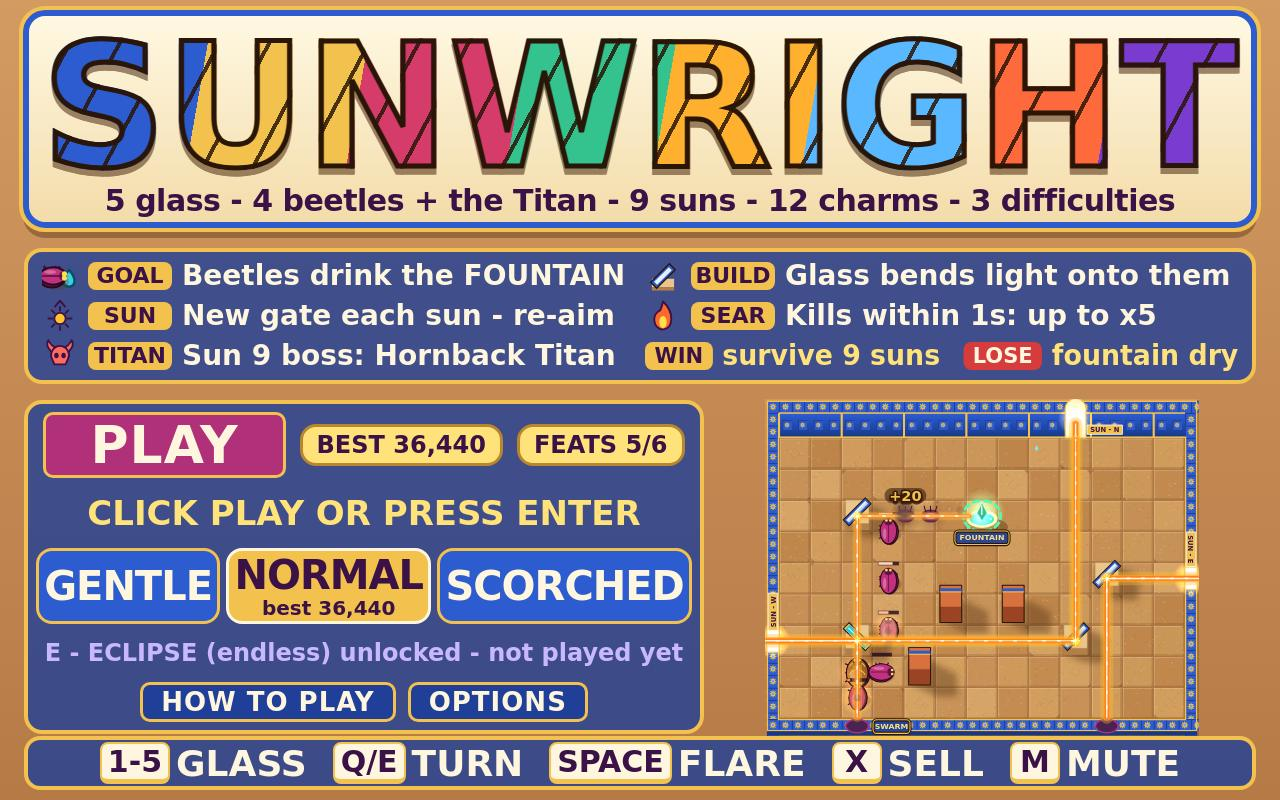
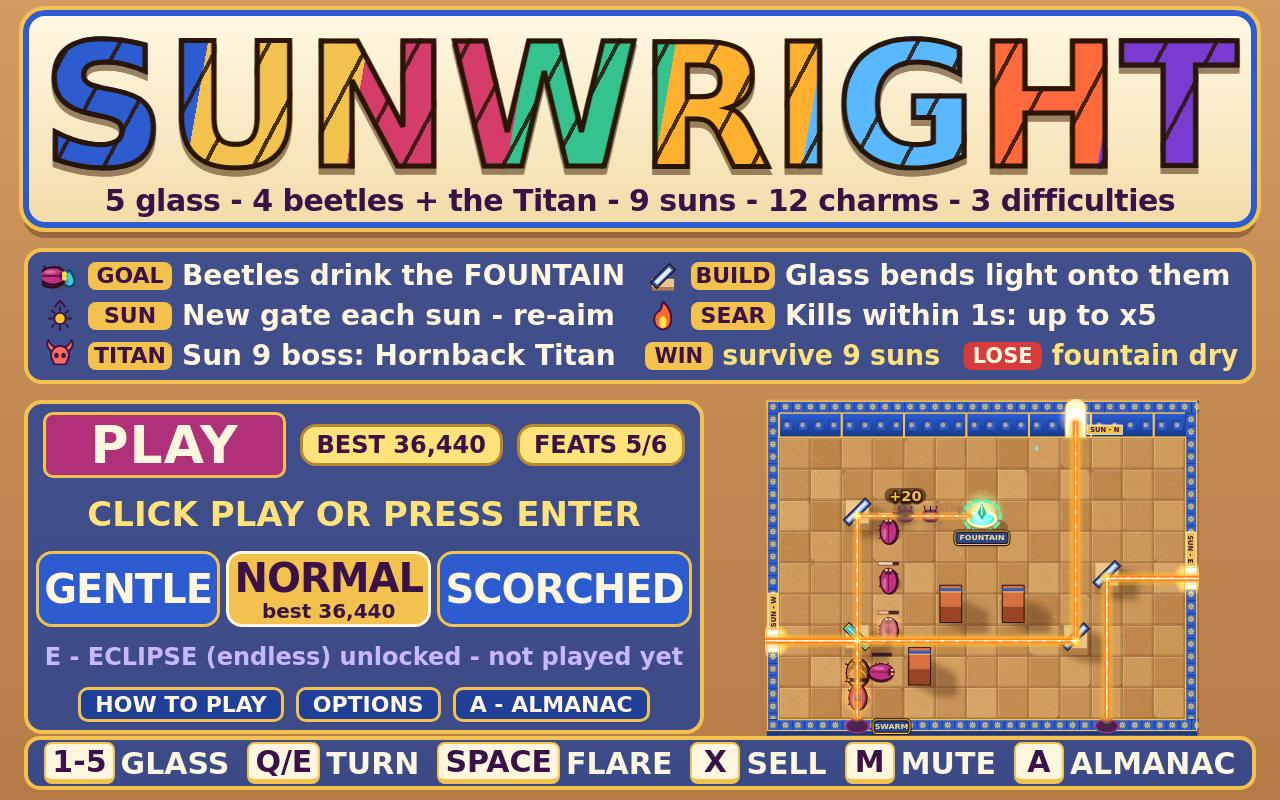
ALMANAC: every beetle, glass level and charm from config at runtime, unmet entries as ? silhouettes with their first sun; A key, title and pause buttons; truth-checked against config and the save

Changed region(s): [[0.0312, 0.625, 0.9688, 1.0]]

diff --git a/game/src/main.js b/game/src/main.js
@@ -3,11 +3,11 @@
 import { DIFFICULTIES, DIFFICULTY_ORDER, DT, PIECES, PIECE_ORDER } from './config.js';
 import { createRun, pieceCost, pieceUnlocked, runSummary, stepSim } from './sim.js';
 import { playSfx, playSizzle, setBeamHum, setVolume, unlockAudio, updateMusic } from './audio.js';
-import { loadBest, loadEclipse, loadHistory, loadSettings, recordRun, saveSettings } from './save.js';
+import { loadBest, loadEclipse, loadHistory, loadMet, loadSettings, recordRun, saveSettings } from './save.js';
 import { drawFrame } from './render/scene.js';
 import { createFx, fxFromEvent, updateFx } from './render/fx.js';
 import { hotbarHit, hudButtonHit } from './render/hud.js';
-import { createMenus, renderOptions, restartRun, showDraft, showResults, showScreen, showTitle } from './ui/menus.js';
+import { createMenus, renderOptions, restartRun, showAlmanac, showDraft, showResults, showScreen, showTitle } from './ui/menus.js';
 import { createTitleDemo, stepTitleDemo } from './titledemo.js';
 import { createInput, drainIntents } from './input.js';
 import { pieceAt, placementCheck, setPiece } from './grid.js';
@@ -140,6 +140,8 @@ function handleUiAction(action, arg) {
       renderOptions(app.settings);
       break;
     case 'closeOptions': app.showOptions = false; break;
+    case 'almanac': app.showAlmanac = true; break;
+    case 'closeAlmanac': app.showAlmanac = false; break;
     case 'setting':
       app.settings[arg.name] = arg.value;
       setVolume(app.settings);
@@ -160,9 +162,16 @@ function handleKeyInPlay(code) {
   if (code === 'KeyM') return toggleMute();
   const over = run.phase === 'won' || run.phase === 'lost';
   if (code === 'Escape') {
-    if (app.showOptions) app.showOptions = false;
+    if (app.showAlmanac) app.showAlmanac = false;
+    else if (app.showOptions) app.showOptions = false;
     else if (over) goTitle();
     else app.paused = !app.paused;
+    return;
+  }
+  if (code === 'KeyA' && !over) {
+    // The Almanac pauses the sun while it is open.
+    app.paused = true;
+    app.showAlmanac = true;
     return;
   }
   if (code === 'KeyF') {
@@ -235,6 +244,7 @@ function handleIntent(it) {
     else if (it.kind === 'wheel' && !app.paused) rotateAtHover(it.dir);
   } else if (it.kind === 'key') {
     // Title: ENTER (or SPACE) starts the selected difficulty; the arrows move the selection.
+    if (app.showAlmanac && it.code !== 'Escape') return;
     if (it.code === 'Enter' || it.code === 'NumpadEnter' || it.code === 'Space') startRun();
     else if (it.code === 'KeyE' && app.screen === 'title') startRun(undefined, app.settings.difficulty, 'eclipse');
     else if ((it.code === 'ArrowUp' || it.code === 'ArrowDown') && app.screen === 'title') {
@@ -244,8 +254,10 @@ function handleIntent(it) {
     }
     else if (it.code === 'Escape') {
       app.showOptions = false;
+      app.showAlmanac = false;
       app.screen = 'title';
     }
+    else if (it.code === 'KeyA' && app.screen === 'title') app.showAlmanac = true;
     else if (it.code === 'KeyM') toggleMute();
   }
 }
@@ -329,6 +341,7 @@ function syncOverlays() {
   let want = null;
   const run = app.run;
   if (app.showOptions) want = 'options';
+  else if (app.showAlmanac) want = 'almanac';
   else if (app.screen === 'title') want = 'title';
   else if (app.screen === 'howto') want = 'howto';
   else if (app.paused) want = 'pause';
@@ -338,6 +351,7 @@ function syncOverlays() {
   if (want === 'results') showResults(menus, run, app.record, loadHistory().slice(-3));
   if (want !== app.overlay) {
     if (want === 'title') showTitle(menus, loadBest, app.settings.difficulty);
+    if (want === 'almanac') showAlmanac(loadMet());
     showScreen(menus, want);
     app.overlay = want;
   }

diff --git a/game/src/ui/menus.js b/game/src/ui/menus.js
@@ -12,10 +12,11 @@ import { draftContext, draftHeal, draftHint, historyChip, nextGoal, titleRules }
 import { drawCharmGlyph } from '../render/charms.js';
 import { drawHowtoPicture } from '../render/howto.js';
 import { drawRuleIcon } from '../render/ruleicons.js';
+import { almanacEntries } from '../almanac.js';
 import { MIN_SQUEEZE, fitScale } from '../render/fit.js';
 
 
-const SCREENS = ['title', 'howto', 'options', 'pause', 'draft', 'results'];
+const SCREENS = ['title', 'howto', 'options', 'almanac', 'pause', 'draft', 'results'];
 
 function el(id) {
   return document.getElementById(id);
@@ -43,6 +44,41 @@ export function showScreen(menus, name) {
   if (name === 'howto') for (const c of document.querySelectorAll('.howto-pic')) drawHowtoPicture(c.getContext('2d'), c.dataset.pic);
   menus.current = name;
   for (const s of SCREENS) el(`${s}-screen`).classList.toggle('hidden', s !== name);
+}
+
+/**
+ * The Almanac: every beetle, glass type and charm with its numbers from config (almanac.js); what the
+ * save has not met yet shows as a "? not met yet" silhouette with the sun it first appears.
+ */
+export function showAlmanac(met) {
+  const a = almanacEntries();
+  const unmet = (first) => `<i class="unmet">? not met yet${first ? ` - first seen ${NAMES.sun.toLowerCase()} ${first}` : ''}</i>`;
+  const beetles = a.beetles
+    .map((b) =>
+      met.enemies.includes(b.id)
+        ? `<div class="alm" data-kind="beetle" data-id="${b.id}" data-hp="${b.hp}" data-speed="${b.speed}" data-armour="${b.armour}" data-first="${b.firstSun}"><b>${escapeHtml(b.name)}</b><span>HP ${b.hp} - speed ${b.speed} - armour ${b.armour} - ${b.trait} - from ${NAMES.sun.toLowerCase()} ${b.firstSun}</span></div>`
+        : `<div class="alm unmet-row" data-kind="beetle" data-id="${b.id}" data-first="${b.firstSun}"><b>???</b>${unmet(b.firstSun)}</div>`,
+    )
+    .join('');
+  const glass = a.glass
+    .map((g) =>
+      met.glass.includes(g.id)
+        ? `<div class="alm" data-kind="glass" data-id="${g.id}" data-cost="${g.cost}" data-levels="${escapeHtml(g.levels.join('|'))}" data-upgrades="${g.upgrades.join('|')}"><b>${escapeHtml(g.name)} - ${g.cost} quartz</b><span>${g.upgrades.length ? g.levels.map((l, k) => `Lv${k + 1} ${escapeHtml(l)}`).join(' / ') : `${escapeHtml(g.levels[0])} (no levels)`}${g.upgrades.length ? ` - U: Lv2 ${g.upgrades[0]}, Lv3 ${g.upgrades[1]}` : ''}</span></div>`
+        : `<div class="alm unmet-row" data-kind="glass" data-id="${g.id}" data-first="${g.firstSun}"><b>???</b>${unmet(g.firstSun)}</div>`,
+    )
+    .join('');
+  const charms = a.charms
+    .map((c) =>
+      met.charms.includes(c.id)
+        ? `<div class="alm charm" data-kind="charm" data-id="${c.id}" data-effect="${escapeHtml(c.effect)}"><b>${escapeHtml(c.name)}</b><span>${escapeHtml(c.effect)}</span><small>${escapeHtml(c.how)}</small></div>`
+        : `<div class="alm charm unmet-row" data-kind="charm" data-id="${c.id}"><b>???</b>${unmet(0)}</div>`,
+    )
+    .join('');
+  const count = (list, ids) => `${list.filter((x) => ids.includes(x.id)).length}/${list.length}`;
+  el('almanac-body').innerHTML =
+    `<section><h3>BEETLES ${count(a.beetles, met.enemies)}</h3>${beetles}</section>` +
+    `<section><h3>GLASS ${count(a.glass, met.glass)}</h3>${glass}</section>` +
+    `<section class="charms"><h3>CHARMS ${count(a.charms, met.charms)}</h3><div class="charm-grid">${charms}</div></section>`;
 }
 
 /** Put the saved settings into the options sliders and boxes. */

diff --git a/game/style.css b/game/style.css
@@ -40,8 +40,8 @@ button.big:hover { background: #cf3f93; }
 .eclipse-line.locked { color: rgba(255, 246, 223, 0.6); }
 .eclipse-pill { position: absolute; left: 24px; top: 168px; width: 336px; box-sizing: border-box; margin: 0; padding: 3px 0; text-align: center; white-space: nowrap; font: 900 20px system-ui, sans-serif; color: #fff6df; background: #3b1247; border: 3px solid #c9b8ff; border-radius: 18px; }
 .title-links { display: flex; justify-content: center; gap: 12px; }
-.title-links button { font-size: 26px; padding: 2px 18px; }
-.keycaps { position: absolute; left: 24px; right: 24px; bottom: 10px; display: flex; justify-content: center; gap: 26px; padding: 2px 0; font: 900 36px system-ui, sans-serif; color: #fff6df; background: rgba(31, 63, 153, 0.8); border: 4px solid #f2c14e; border-radius: 16px; }
+.title-links button { font-size: 22px; padding: 2px 14px; white-space: nowrap; letter-spacing: 0; }
+.keycaps { position: absolute; left: 24px; right: 24px; bottom: 10px; display: flex; justify-content: center; gap: 18px; padding: 2px 0; font: 900 30px system-ui, sans-serif; color: #fff6df; background: rgba(31, 63, 153, 0.8); border: 4px solid #f2c14e; border-radius: 16px; }
 .keycaps span { display: flex; align-items: center; gap: 6px; white-space: nowrap; }
 kbd { display: inline-block; min-width: 34px; padding: 0 6px; font: 900 30px system-ui, sans-serif; text-align: center; color: #3b1247; background: #fff6df; border: 2px solid #f2c14e; border-bottom-width: 5px; border-radius: 8px; }
 .row { display: flex; gap: 12px; }
@@ -131,3 +131,17 @@ kbd { display: inline-block; min-width: 34px; padding: 0 6px; font: 900 30px sys
 .buttons button.big { font-size: 44px; padding: 14px 22px; }
 .buttons .minor { display: flex; flex-direction: column; gap: 6px; }
 .buttons .minor button { font-size: 30px; padding: 2px 14px; }
+
+/* Almanac: one sheet, beetles and glass on the left, the 12 charms in a grid on the right. */
+.sheet.almanac { width: 1220px; max-height: 776px; box-sizing: border-box; padding: 10px 18px 12px; gap: 6px; }
+.sheet.almanac h2 { font-size: 36px; }
+.almanac-body { display: grid; grid-template-columns: 1fr 1fr; grid-template-rows: auto auto; gap: 6px 18px; width: 100%; text-align: left; }
+.almanac-body section.charms { grid-column: 2; grid-row: 1 / 3; }
+.almanac-body h3 { margin: 2px 0; font: 900 22px system-ui, sans-serif; color: #ffe27a; }
+.alm { display: flex; flex-direction: column; padding: 2px 8px; margin-bottom: 3px; background: rgba(20, 30, 90, 0.6); border: 2px solid rgba(242, 193, 78, 0.6); border-radius: 8px; }
+.alm b { font: 900 18px system-ui, sans-serif; color: #fff6df; }
+.alm span { font: 700 15px system-ui, sans-serif; color: #ffe9b8; }
+.alm small { font: 700 13px system-ui, sans-serif; color: #c9b8ff; }
+.alm.unmet-row b { color: rgba(255, 246, 223, 0.45); letter-spacing: 3px; }
+.alm .unmet { font: 700 15px system-ui, sans-serif; color: rgba(255, 246, 223, 0.6); }
+.charm-grid { display: grid; grid-template-columns: 1fr 1fr; gap: 4px 8px; }

diff --git a/game/src/sim.js b/game/src/sim.js
@@ -48,6 +48,8 @@ export function createRun(seed, difficultyId = 'normal', mode = 'campaign') {
     chain: { count: 0, timer: 0, best: 0 },
     feedback: { searAt: -9, biteAt: -9, biteHarm: 0, quartzAt: -9 },
     stats: { kills: 0, sunHeal: 0, leaked: 0, wavesCleared: 0, offersSeen: 0 },
+    // What this run has met, for the Almanac: beetle kinds spawned, glass placed, charms offered.
+    met: { enemies: [], glass: [], charms: [] },
     events: [],
     endedAt: 0,
     layoutVersion: 0,
@@ -109,6 +111,7 @@ function applyOrder(run, order) {
         return;
       }
       run.quartz -= cost;
+      if (!run.met.glass.includes(order.piece)) run.met.glass.push(order.piece);
       setPiece(run.grid, order.c, order.r, { type: order.piece, rot: order.rot & 3, prevRot: order.rot & 3, turnedAt: -1, placedAt: run.time, placedWave: run.waveIndex, paid: cost });
       run.flow = buildFlowField(run.grid);
       refreshLight(run);
@@ -208,6 +211,7 @@ function finishWave(run) {
   run.phase = 'draft';
   run.offer = offerBoons(run);
   run.stats.offersSeen += run.offer.length;
+  for (const id of run.offer) if (!run.met.charms.includes(id)) run.met.charms.push(id);
   refreshLight(run);
   for (const type of Object.keys(PIECES)) if (PIECES[type].unlockWave === run.waveIndex) emit(run, { type: 'unlock', piece: type });
 }
@@ -224,6 +228,7 @@ function stepWave(run) {
   while (run.spawnCursor < run.schedule.length && run.schedule[run.spawnCursor].t <= run.waveTime) {
     const s = run.schedule[run.spawnCursor++];
     spawnEnemy(run, s.type, s.gate, s.hpMul);
+    if (!run.met.enemies.includes(s.type)) run.met.enemies.push(s.type);
     if (s.type === 'titan') emit(run, { type: 'boss' });
   }
   moveEnemies(run, DT);
@@ -249,7 +254,7 @@ export function stepSim(run, orders) {
 /** What the save keeps of a finished run (also shown in the results' RUN HISTORY). */
 export function runSummary(run) {
   const feats = FEATS.filter((f) => f.test(run)).map((f) => f.id);
-  return { difficultyId: run.difficultyId, mode: run.mode, outcome: run.phase, score: run.score, suns: run.stats.wavesCleared, day: run.aperture.day, phase: run.aperture.phase.name, feats };
+  return { met: run.met, difficultyId: run.difficultyId, mode: run.mode, outcome: run.phase, score: run.score, suns: run.stats.wavesCleared, day: run.aperture.day, phase: run.aperture.phase.name, feats };
 }
 
 /** Waves still to spawn plus beetles on the board, for the HUD's remaining bar. */

diff --git a/game/src/almanac.js b/game/src/almanac.js
@@ -1,0 +1,34 @@
+// The Almanac's contents, read from config every time (never typed by hand): each beetle's HP, speed,
+// armour, trait and first sun; each glass type's cost, first sun and effect at Lv1 / Lv2 / Lv3 with the
+// upgrade prices; each charm's effect and how it is earned. DOM-free, so check-shot-truth can recompute it.
+import { BEAM, BOONS, ENEMIES, ENEMY_ORDER, NAMES, PIECES, PIECE_ORDER, UPGRADES, enemyRuleTag } from './config.js';
+import { firstWaveOf } from './waves.js';
+
+const pct = (x) => `${Math.round(x * 100)}%`;
+
+/** What one glass type does at level k (0-based), from BEAM and UPGRADES. */
+function glassLevel(type, k) {
+  if (type === 'mirror') {
+    const loss = BEAM.bounceLoss * UPGRADES.mirror.lossScale[k];
+    return loss > 0 ? `turns light, -${pct(loss)}` : 'turns light, no loss';
+  }
+  if (type === 'splitter') return `2 beams of ${pct(UPGRADES.splitter.half[k])}`;
+  if (type === 'lens') return `x${+(BEAM.lensMult + UPGRADES.lens.multAdd[k]).toFixed(1)} for ${BEAM.lensReach} cells`;
+  if (type === 'prism') return `branches keep ${pct(Math.min(0.95, BEAM.prismShare + UPGRADES.prism.shareAdd[k]))}`;
+  return null;
+}
+
+export function almanacEntries() {
+  return {
+    beetles: ENEMY_ORDER.map((id) => {
+      const d = ENEMIES[id];
+      return { id, name: d.name, hp: d.hp, speed: d.speed, armour: d.armour, trait: enemyRuleTag(d) || 'walks', firstSun: firstWaveOf(id) + 1 };
+    }),
+    glass: PIECE_ORDER.map((id) => {
+      const p = PIECES[id];
+      const levels = [0, 1, 2].map((k) => glassLevel(id, k));
+      return { id, name: p.name, cost: p.cost, firstSun: (p.unlockWave ?? 0) + 1, levels: levels[0] ? levels : [p.short], upgrades: levels[0] ? UPGRADES.cost.slice() : [] };
+    }),
+    charms: BOONS.map((b) => ({ id: b.id, name: b.name, effect: b.text, rare: b.weight <= 2, how: `${b.weight <= 2 ? 'rare' : 'common'} pick after a ${NAMES.sun.toLowerCase()}${b.repeat ? ', can repeat' : ''}` })),
+  };
+}

diff --git a/game/index.html b/game/index.html
@@ -34,11 +34,12 @@
       <div class="title-links">
         <button id="howto-button" data-action="howto">HOW TO PLAY</button>
         <button id="options-button" data-action="options">OPTIONS</button>
+        <button id="almanac-button" data-action="almanac">A - ALMANAC</button>
       </div>
     </div>
     <div id="keycaps" class="keycaps">
       <span><kbd>1-5</kbd>GLASS</span><span><kbd>Q/E</kbd>TURN</span><span><kbd>SPACE</kbd>FLARE</span>
-      <span><kbd>X</kbd>SELL</span><span><kbd>M</kbd>MUTE</span>
+      <span><kbd>X</kbd>SELL</span><span><kbd>M</kbd>MUTE</span><span><kbd>A</kbd>ALMANAC</span>
     </div>
   </section>
 
@@ -60,6 +61,7 @@
       <button data-action="resume">RESUME (ESC)</button>
       <button data-action="restart">RESTART RUN</button>
       <button data-action="options">OPTIONS</button>
+      <button data-action="almanac">ALMANAC (A)</button>
       <button data-action="mute">SOUND ON / OFF (M)</button>
       <button data-action="menu">QUIT TO TITLE</button>
     </div>
@@ -76,6 +78,14 @@
       <label>Beam patterns <input id="opt-patterns" type="checkbox" data-setting="patterns"></label>
       <p class="keys">F - fast forward x2 during a sun</p>
       <button data-action="closeOptions">BACK</button>
+    </div>
+  </section>
+
+  <section id="almanac-screen" class="overlay hidden">
+    <div class="sheet almanac">
+      <h2>ALMANAC</h2>
+      <div id="almanac-body" class="almanac-body"></div>
+      <button data-action="closeAlmanac">BACK (ESC)</button>
     </div>
   </section>
 

diff --git a/game/src/save.js b/game/src/save.js
@@ -38,6 +38,9 @@ export function recordRun(summary) {
   data.best[summary.difficultyId] = { score: Math.max(old.score, summary.score), waves: Math.max(old.waves, summary.suns) };
   data.history = [...(data.history ?? []), summary].slice(-HISTORY_KEEP);
   if (summary.outcome === 'won') data.eclipseUnlocked = true;
+  // The Almanac's record: every beetle, glass and charm any finished run has met.
+  data.met ??= { enemies: [], glass: [], charms: [] };
+  for (const k of ['enemies', 'glass', 'charms']) data.met[k] = [...new Set([...data.met[k], ...(summary.met?.[k] ?? [])])];
   if (summary.mode === 'eclipse') data.eclipseBest = Math.max(data.eclipseBest ?? 0, summary.suns);
   data.feats = [...new Set([...(data.feats ?? []), ...(summary.feats ?? [])])];
   writeSave(data);
@@ -48,6 +51,11 @@ export function recordRun(summary) {
 export function loadEclipse() {
   const data = readSave();
   return { unlocked: !!data.eclipseUnlocked || (data.history ?? []).some((h) => h.outcome === 'won'), best: data.eclipseBest ?? 0 };
+}
+
+/** What the Almanac shows as met: { enemies, glass, charms } (ids). */
+export function loadMet() {
+  return { enemies: [], glass: [], charms: [], ...readSave().met };
 }
 
 /** Every FEAT id any finished run has earned. */

diff --git a/game/src/draft.js b/game/src/draft.js
@@ -31,6 +31,7 @@ export function rerollOffer(run) {
   run.rerolls++;
   run.offer = offerBoons(run);
   run.stats.offersSeen += run.offer.length;
+  for (const id of run.offer) if (!run.met.charms.includes(id)) run.met.charms.push(id);
   return true;
 }
 

diff --git a/NOTES.md b/NOTES.md
@@ -465,6 +465,16 @@
   splitter, pillar lit; lens 7 and prism 8 greyed), the Lv2 mirror's pips, fountain 6/10. Run still wins
   (36,440, 10/10). check-shot-truth asserts the card counts from the replayed run.
 
+- ALMANAC (A on the title, title button, pause button, A during a sun pauses and opens it): one sheet
+  with every beetle (HP, speed, armour, trait, first sun), every glass type (cost, first sun, effect at
+  Lv1 / Lv2 / Lv3 and upgrade prices; pillar "no levels") and the 12 charms (effect, common/rare pick,
+  repeatable), all built from config at runtime (almanac.js). Unmet entries (save `met`: beetle kinds
+  spawned, glass placed, charms offered, unioned over finished runs) show as `???` with `? not met yet -
+  first seen sun N`. check-shot-truth: staging opens it after the title shot; every row's numbers equal
+  config and its met state equals the replayed runs (22/22 met in the staged save). The kit takes exactly
+  4 screenshots, so the title shows the `A - ALMANAC` button and an `A ALMANAC` keycap (bar now 30 px,
+  6 keys; overflow checked).
+
 ## Next
 - READY FOR A/B (01:00 UTC): bold beams + the three cues on top of 61673e1 (FEATS, GLASS legend,
   INCOMING tags, HUD buttons, SUNSTONE chip, title rules table kept). Verified on the final state:
